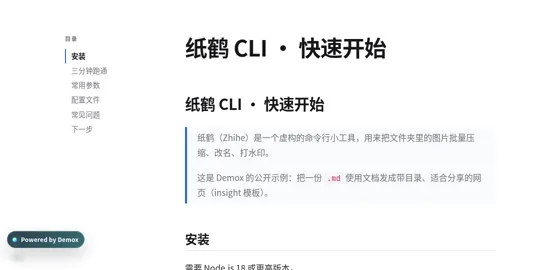
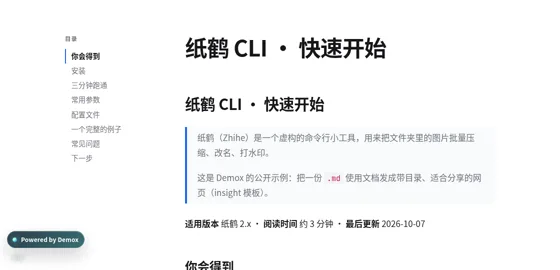
examples: polish 8 example sites (typography/layout/details, mobile) + refresh gallery screenshots

diff --git a/examples/portfolio/index.html b/examples/portfolio/index.html
@@ -24,10 +24,29 @@ h1{font:600 clamp(34px,5vw,58px)/1.1 "Songti SC","Noto Serif SC",serif;margin:16
 .review ol{margin:0;padding-left:20px}.review li{margin:0 0 10px}.review li em{font-style:normal;color:var(--mute)}
 footer{color:var(--mute);font-size:13px;padding:24px 0 40px;border-top:1px solid var(--line)}
 @media(max-width:820px){.hero,.review{grid-template-columns:1fr}.grid{grid-template-columns:1fr}.w.big{grid-column:auto}}
+
+/* ---- polish v2 ---- */
+body{-webkit-font-smoothing:antialiased;letter-spacing:.005em}
+nav{position:sticky;top:0;z-index:5;background:rgba(250,250,247,.86);backdrop-filter:saturate(1.4) blur(10px);margin:0 calc(50% - 50vw);padding-left:calc(50vw - 50%);padding-right:calc(50vw - 50%)}
+.hero{padding:88px 0 44px}
+h1{letter-spacing:-.02em}
+.hero p{font-size:15.5px;line-height:1.8;border-left:2px solid var(--a);padding-left:16px}
+.sec{display:flex;align-items:baseline;gap:12px;margin:8px 0 0;font-size:12px;letter-spacing:.14em;color:var(--mute);text-transform:uppercase}
+.sec b{font:600 12px ui-monospace,monospace;color:var(--a)}.sec:after{content:"";flex:1;height:1px;background:var(--line)}
+.grid{gap:24px}
+.w{transition:transform .25s ease,box-shadow .25s ease}
+.w:hover{transform:translateY(-3px);box-shadow:0 18px 40px -24px rgba(24,24,27,.35)}
+.w .cap{display:flex;justify-content:space-between;align-items:baseline;gap:10px;border-top:1px solid var(--line)}
+.review ol{list-style:none;padding:0;counter-reset:q}
+.review li{counter-increment:q;position:relative;padding:14px 16px 14px 52px;border:1px solid var(--line);border-radius:12px;background:#fff;margin-bottom:12px}
+.review li:before{content:counter(q);position:absolute;left:16px;top:14px;width:24px;height:24px;border-radius:50%;background:var(--ink);color:#fff;font:600 12px/24px system-ui;text-align:center}
+footer{display:flex;justify-content:space-between;gap:12px;flex-wrap:wrap}
+@media(max-width:820px){.hero{padding:48px 0 28px}.note{display:none}.pin{transform:scale(.9)}}
 </style></head><body><div class="wrap">
 <nav><b>远山设计</b><span class="badge"><i></i>评审中 · 第 2 稿</span></nav>
 <section class="hero"><div><span class="badge">2026 · 品牌与包装</span><h1>给一家<br>小茶铺做的整套视觉</h1></div>
 <p>这一页发给「青檐茶铺」（虚构客户）做第二轮评审：Logo、包装、店招和小程序首页都在下面。图上的编号对应页尾的待确认事项，看完直接回邮件说编号就行。</p></section>
+<div class="sec"><b>01</b>作品</div>
 <section class="grid">
  <div class="w big"><svg class="art" viewBox="0 0 640 360"><rect width="640" height="360" fill="#e9efe9"/><circle cx="470" cy="150" r="96" fill="#2f5d50"/><path d="M0 290 Q160 200 320 260 T640 230 V360 H0Z" fill="#c8d6cc"/><path d="M0 320 Q200 260 380 300 T640 290 V360 H0Z" fill="#9db5a6"/><text x="56" y="140" font-family="serif" font-size="56" fill="#18181b">青檐</text><text x="58" y="180" font-family="system-ui" font-size="16" fill="#52525b" letter-spacing="6">QINGYAN TEA</text></svg>
   <span class="pin" style="left:62%;top:20%">1</span><span class="note" style="left:calc(62% + 34px);top:20%">圆再往右收 20px？</span>
@@ -41,9 +60,10 @@ footer{color:var(--mute);font-size:13px;padding:24px 0 40px;border-top:1px solid
  <div class="w"><svg class="art" viewBox="0 0 320 240"><rect width="320" height="240" fill="#fff"/><g font-family="system-ui" font-size="12" fill="#52525b"><rect x="30" y="40" width="60" height="60" rx="8" fill="#2f5d50"/><text x="30" y="120">#2F5D50</text><rect x="100" y="40" width="60" height="60" rx="8" fill="#9db5a6"/><text x="100" y="120">#9DB5A6</text><rect x="170" y="40" width="60" height="60" rx="8" fill="#f3ede2" stroke="#e4e4e7"/><text x="170" y="120">#F3EDE2</text><rect x="240" y="40" width="60" height="60" rx="8" fill="#18181b"/><text x="240" y="120">#18181B</text></g><text x="30" y="180" font-family="serif" font-size="30" fill="#18181b">山色 · 檐影 · 茶汤</text></svg>
   <div class="cap"><b>色板与字体</b><span>主色 4 个</span></div></div>
 </section>
-<section class="review"><div><h2 style="margin:0;font:600 26px/1.2 serif">待确认 3 件事</h2><p style="color:var(--mute)">回复编号 + 「可以」或修改意见即可，周五前定稿。</p></div>
+<div class="sec"><b>02</b>待确认</div>
+<section class="review" style="border-top:0;padding-top:20px"><div><h2 style="margin:0;font:600 26px/1.2 serif">待确认 3 件事</h2><p style="color:var(--mute)">回复编号 + 「可以」或修改意见即可，周五前定稿。</p></div>
 <ol><li><b>主视觉的圆</b>：是否往右收一点，让「青檐」两个字更透气？<em>（图 1）</em></li>
 <li><b>茶罐顶部</b>：保留烫金细线，还是整罐纯色？<em>（图 2）</em></li>
 <li><b>小程序首页</b>：两个推荐位够不够，要不要加「季节限定」？<em>（图 3）</em></li></ol></section>
-<footer>远山设计（虚构工作室）· 本页是 Demox 公开示例：把作品集发成链接给客户评审，<code>demox deploy ./portfolio</code>。</footer>
+<footer><span>远山设计（虚构工作室）· hello@yuanshan.example</span><span>Demox 公开示例 · <code>demox deploy ./portfolio</code></span></footer>
 </div></body></html>

diff --git a/examples/tool/index.html b/examples/tool/index.html
@@ -28,6 +28,24 @@ input[type=range]{width:55%;accent-color:var(--acc)}
 .tip{margin-top:18px;padding:14px;border-radius:14px;background:rgba(255,138,91,.08);color:#ffd2bf;font-size:14px}
 footer{color:var(--mute);font-size:13px;padding:30px 0}
 @media(max-width:760px){main{grid-template-columns:1fr}.time b{font-size:52px}}
+
+/* ---- polish v2 ---- */
+body{-webkit-font-smoothing:antialiased;justify-content:center}
+header{position:fixed;top:0;left:50%;transform:translateX(-50%)}
+main{margin-top:0}
+.time b{font-variant-numeric:tabular-nums}
+.card{box-shadow:0 1px 0 rgba(255,255,255,.04) inset,0 30px 60px -30px rgba(0,0,0,.6)}
+.modes button{transition:background .2s,color .2s}.modes button:not(.on):hover{color:var(--ink);background:rgba(255,255,255,.1)}
+.ctl button{transition:transform .12s}.ctl button:active{transform:scale(.97)}
+button:focus-visible,input:focus-visible{outline:2px solid var(--acc);outline-offset:3px}
+#arc{transition:stroke-dashoffset 1s linear}
+.week{display:grid;grid-template-columns:repeat(7,1fr);gap:8px;align-items:end;height:84px;margin-top:6px}
+.week div{display:flex;flex-direction:column;align-items:center;gap:6px;height:100%;justify-content:flex-end}
+.week i{display:block;width:100%;max-width:22px;border-radius:6px 6px 3px 3px;background:rgba(255,255,255,.08);min-height:4px}
+.week i.on{background:var(--acc)}.week span{font-size:11px;color:var(--mute)}
+kbd{font:12px ui-monospace,monospace;border:1px solid rgba(255,255,255,.25);border-bottom-width:2px;border-radius:5px;padding:0 5px;color:var(--ink)}
+footer{position:fixed;bottom:0}
+@media(max-width:760px){header,footer{position:static;transform:none}body{justify-content:flex-start}}
 </style></head><body>
 <header><div class="logo">晚风<b>·</b>番茄钟</div><small>单文件 HTML · 数据只存在你的浏览器</small></header>
 <main>
@@ -43,7 +61,8 @@ footer{color:var(--mute);font-size:13px;padding:30px 0}
   <label>专注 <input type="range" min="10" max="60" value="25" id="r-focus"><span id="v-focus">25</span></label>
   <label>短休 <input type="range" min="3" max="15" value="5" id="r-short"><span id="v-short">5</span></label>
   <label>长休 <input type="range" min="10" max="30" value="15" id="r-long"><span id="v-long">15</span></label>
-  <div class="tip">每完成 4 个专注，建议来一次长休。按空格键开始 / 暂停。</div>
+  <h2 style="margin-top:22px">最近 7 天</h2><div class="week" id="week"></div>
+  <div class="tip">每完成 4 个专注，建议来一次长休。按 <kbd>空格</kbd> 开始 / 暂停。</div>
  </aside>
 </main>
 <footer>晚风番茄钟 · Demox 公开示例：一个 AI 写好的单页小工具，<code>demox deploy ./tool</code> 发布。</footer>
@@ -51,7 +70,8 @@ footer{color:var(--mute);font-size:13px;padding:30px 0}
 var D={focus:25,short:5,long:15},L={focus:'专注一段',short:'起来走走',long:'好好休息'},m='focus',left=D.focus*60,tot=left,run=null;
 var $=function(i){return document.getElementById(i)},key='wf-'+new Date().toDateString();
 function show(){var mm=Math.floor(left/60),ss=left%60;$('t').textContent=(mm<10?'0':'')+mm+':'+(ss<10?'0':'')+ss;$('arc').style.strokeDashoffset=326.7*(1-left/tot);document.title=$('t').textContent+' · 晚风番茄钟';}
-function today(){var n=+(localStorage.getItem(key)||0),el=$('today');el.innerHTML=n?Array(n+1).join('<i></i>'):'<em>还没有，先来一个。</em>';}
+function today(){var n=+(localStorage.getItem(key)||0),el=$('today');el.innerHTML=n?Array(n+1).join('<i></i>'):'<em>还没有，先来一个。</em>';week();}
+function week(){var W='日一二三四五六',h='',d=new Date(),max=1,v=[];for(var k=6;k>=0;k--){var x=new Date(d);x.setDate(d.getDate()-k);var c=+(localStorage.getItem('wf-'+x.toDateString())||0);v.push([c,k===0?'今':W[x.getDay()]]);max=Math.max(max,c);}v.forEach(function(a){h+='<div><i class="'+(a[0]?'on':'')+'" style="height:'+Math.max(4,a[0]/max*64)+'px"></i><span>'+a[1]+'</span></div>';});$('week').innerHTML=h;}
 function set(x){m=x;stop();left=tot=D[m]*60;$('lab').textContent=L[m];document.querySelectorAll('.modes button').forEach(function(b){b.classList.toggle('on',b.dataset.m===m)});show();}
 function stop(){clearInterval(run);run=null;$('go').textContent='开始';}
 function go(){if(run){stop();return;}$('go').textContent='暂停';run=setInterval(function(){left--;if(left<=0){stop();if(m==='focus'){localStorage.setItem(key,+(localStorage.getItem(key)||0)+1);today();}set(m==='focus'?'short':'focus');return;}show();},1000);}

diff --git a/examples/ai-html/ai-generated.html b/examples/ai-html/ai-generated.html
@@ -263,6 +263,21 @@
     @media (prefers-reduced-motion: reduce) {
       .blink { animation: none; }
     }
+
+    /* ---- polish v2 ---- */
+    body { -webkit-font-smoothing: antialiased; min-height: 100dvh; display: flex; flex-direction: column;
+      background-image: linear-gradient(90deg, transparent calc(50% - 2px), rgba(245, 197, 66, .18) calc(50% - 2px), rgba(245, 197, 66, .18) calc(50% + 2px), transparent calc(50% + 2px));
+      background-size: 100% 46px; background-attachment: fixed; }
+    main { flex: 0 0 auto; }
+    .ticket { box-shadow: 0 1px 0 rgba(255,255,255,.4) inset, 0 30px 80px -20px rgba(0,0,0,.6), 0 0 0 1px rgba(0,0,0,.25); transform: rotate(-.4deg); }
+    .ticket .time, .clock { font-variant-numeric: tabular-nums; }
+    .tips { width: min(920px, calc(100% - 2rem)); margin: 0 auto 1.4rem; display: grid; grid-template-columns: 1fr; gap: .7rem; }
+    .tips div { background: rgba(0,0,0,.32); border: 1px solid rgba(255,255,255,.08); border-radius: 10px; padding: .9rem 1rem; color: var(--glass); backdrop-filter: blur(6px); }
+    .tips b { display: block; font-family: var(--led); font-size: .72rem; letter-spacing: .16em; text-transform: uppercase; color: #f5c542; margin-bottom: .25rem; font-weight: 600; }
+    .tips span { font-size: .92rem; line-height: 1.6; color: #e8e2d4; }
+    .fine { margin-top: auto; padding-top: 1rem; border-top: 1px solid rgba(255,255,255,.08); }
+    @media (min-width: 800px) { .tips { grid-template-columns: repeat(3, 1fr); } main { margin-bottom: 2rem; } }
+    @media (max-width: 799px) { .ticket { transform: none; } }
   </style>
 </head>
 <body>
@@ -328,6 +343,11 @@
     </section>
   </main>
 
+  <section class="tips" aria-label="乘车须知">
+    <div><b>上车点</b><span>江岸路 3 号泊位，看到车头亮黄色「NB-7」就是它。提前 10 分钟到。</span></div>
+    <div><b>带什么</b><span>一副耳机（车上有备用）和一件外套，江边夜里风大。</span></div>
+    <div><b>下车后</b><span>终点在老码头，01:10 有一班接驳车回到起点，不用另外打车。</span></div>
+  </section>
   <p class="fine">
     车内备茶与水，不设酒单。自带耳机可选。禁烟。找不到车就沿江步道走到第三组路灯。这是一份 AI 生成的单页 HTML，用 Demox 发布，没有单独的服务器。
   </p>

diff --git a/examples/vite-react/src/styles.css b/examples/vite-react/src/styles.css
@@ -566,3 +566,38 @@ dl dt {
     transition: none;
   }
 }
+
+/* ---- polish v2: rhythm, numerals, calmer focus, spec card, mobile ---- */
+body { -webkit-font-smoothing: antialiased; text-rendering: optimizeLegibility; }
+.row-meta, .spec dd, .row-sku { font-variant-numeric: tabular-nums; }
+.filters button:hover, .catalog button:hover { outline: none; }
+.filters button:hover { border-color: var(--anodize); color: var(--anodize); }
+.filters .is-active:hover { color: #fff; }
+.catalog button { transition: background-color .18s ease, padding-left .18s ease; }
+.catalog button:hover { background: rgba(47, 111, 116, 0.06); padding-left: 0.6rem; }
+.catalog .is-selected .row-name { color: var(--anodize); }
+.lede { font-size: 1rem; line-height: 1.7; color: #33403f; }
+.spec {
+  margin-top: 1.4rem;
+  padding: 1.1rem 1.2rem 1rem;
+  border: 1px solid var(--line);
+  border-radius: 14px;
+  background: linear-gradient(180deg, #fff, rgba(255,255,255,.55));
+  box-shadow: 0 1px 0 rgba(255,255,255,.8) inset, 0 10px 30px -18px rgba(20, 40, 44, .35);
+}
+.spec h2 { letter-spacing: -0.01em; }
+.spec dl { row-gap: 0.85rem; }
+.note { line-height: 1.65; }
+.foot { margin-top: 1.2rem; padding-top: 0.9rem; border-top: 1px dashed var(--line); }
+@media (min-width: 960px) {
+  .sheet { padding: 2.4rem 2.6rem 1.6rem; }
+  .catalog button { padding: 0.8rem 0.45rem; }
+}
+@media (max-width: 720px) {
+  .stage { min-height: 46vh; }
+  .sheet { padding: 1.5rem 1.15rem 5rem; }
+  .filters { flex-wrap: nowrap; overflow-x: auto; margin-inline: -1.15rem; padding: 0 1.15rem 0.2rem; scrollbar-width: none; }
+  .filters button { flex: none; }
+  .catalog button { padding: 0.85rem 0.3rem; row-gap: 0.25rem; }
+  .row-name { font-size: 1.02rem; }
+}

diff --git a/examples/essay/README.md b/examples/essay/README.md
@@ -4,6 +4,10 @@
 >
 > 这是 Demox 的公开示例：把 Markdown 随笔发成暖色、衬线、适合慢慢读的网页（warm 模板）。
 
+> 「雾是山的呼吸，你得学会跟它一起慢下来。」
+
+---
+
 ## 先说天气
 
 十月的第一个礼拜，山里一下子凉了。早上七点推开窗，雾还挂在对面的竹林上，像谁晾了一床没收的棉被。
@@ -15,6 +19,8 @@
 1. **把院子里那块荒地翻了一遍。** 种下萝卜、菠菜和一排小葱。邻居阿婆路过看了一眼，说萝卜种得太密，我假装没听见，然后在她走后偷偷拔掉了一半。
 2. **学会了生炉子。** 第一次把整个屋子熏成了腊肉味，第三次终于能在十分钟内烧开一壶水。
 3. **每天写五百字。** 不为什么，只是想知道一个人安静下来，到底能想多少东西。
+
+---
 
 ## 一段摘抄
 
@@ -30,6 +36,17 @@
 
 有了名字，好像就有了邻居。
 
+---
+
+## 这个月的小账本
+
+| 项目 | 数量 |
+| --- | --- |
+| 种下的萝卜 | 40 棵（拔掉一半后剩 20） |
+| 生炉子失败 | 2 次 |
+| 写下的字 | 约 15000 |
+| 来偷吃的「税务局」 | 每天 1 次，从不缺勤 |
+
 ## 下个月
 
 - 柿子该熟了，打算试着做柿饼
@@ -39,3 +56,5 @@
 祝秋安。
 
 —— 阿檀，于半山腰
+
+*想收到下一封，回信说一声就好。不想收了，也回一声，我不会难过（大概）。*

diff --git a/examples/docs/README.md b/examples/docs/README.md
@@ -4,6 +4,15 @@
 >
 > 这是 Demox 的公开示例：把一份 `.md` 使用文档发成带目录、适合分享的网页（insight 模板）。
 
+**适用版本** 纸鹤 2.x · **阅读时间** 约 3 分钟 · **最后更新** 2026-10-07
+
+## 你会得到
+
+- 一条命令把整个文件夹的图片压缩到合适大小
+- 按模板批量改名，不再有 `IMG_4031.JPG`
+- 可选的右下角文字水印
+- 原图永远不动，结果统一放在 `./zhihe-out/`
+
 ## 安装
 
 需要 Node.js 18 或更高版本。
@@ -13,7 +22,7 @@ npm install -g zhihe-cli
 zhihe --version
 ```
 
-看到版本号就说明装好了。公司电脑如果没有全局安装权限，用 `npx zhihe-cli` 也可以。
+看到类似 `zhihe 2.3.1` 的版本号就说明装好了。公司电脑如果没有全局安装权限，用 `npx zhihe-cli` 也可以。
 
 ## 三分钟跑通
 
@@ -56,6 +65,19 @@ zhihe --version
 ```
 
 命令行参数优先级高于配置文件。
+
+## 一个完整的例子
+
+把旅行照片压到 2400 像素宽、按日期改名、加水印：
+
+```bash
+zhihe run --max-width 2400 --rename "{date}-{n}" --watermark "© 小林的相册"
+```
+
+| 处理前 | 处理后 |
+| --- | --- |
+| `IMG_4031.JPG` · 6.2 MB | `2026-09-14-001.jpg` · 820 KB |
+| `IMG_4032.JPG` · 5.8 MB | `2026-09-14-002.jpg` · 790 KB |
 
 ## 常见问题
 

diff --git a/examples/changelog/CHANGELOG.md b/examples/changelog/CHANGELOG.md
@@ -4,6 +4,17 @@
 >
 > 这是 Demox 的公开示例：把 `CHANGELOG.md` 发成深色、贴合开发者控制台风格的网页（dark 模板）。
 
+## 版本一览
+
+| 版本 | 日期 | 类型 | 一句话 |
+| --- | --- | --- | --- |
+| 3.4.0 | 2026-09-28 | 功能 | 双向链接面板、每日笔记模板 |
+| 3.3.2 | 2026-09-10 | 修复 | 同步冲突与 Windows 路径 |
+| 3.3.0 | 2026-08-22 | 功能 | 白板视图、Mermaid；**提高最低系统要求** |
+| 3.2.0 | 2026-07-30 | 功能 | 正则搜索、自定义快捷键 |
+
+> **当前稳定版 3.4.0。** 自动更新默认开启，可在「设置 → 关于」查看。
+
 ## 3.4.0 · 2026-09-28
 
 ### 新增
@@ -37,9 +48,9 @@
 - **白板视图**：把笔记卡片拖到无限画布上自由排列。
 - 支持 Mermaid 流程图。
 
-### 变更
+### 变更（需要注意）
 
-- 最低系统要求调整为 macOS 12 / Windows 10。
+- ⚠ 最低系统要求调整为 macOS 12 / Windows 10。
 - 旧版「标签云」移到插件市场，不再内置。
 
 ## 3.2.0 · 2026-07-30

diff --git a/examples/markdown/README.md b/examples/markdown/README.md
@@ -10,6 +10,18 @@
 
 如果只是远程看数据，读「数据字段」和「常见问题」即可。
 
+### 一页速查
+
+| 阶段 | 要做的事 | 大约用时 |
+| --- | --- | --- |
+| 到站 | 对箱、拍开箱照 | 15 分钟 |
+| 选址 | 离树和田埂 10 m 以上，桩位用卷尺量 | 20 分钟 |
+| 安装 | 地锚 → 桅杆 → 主机 → 探头 → 雨量筒 → 太阳能板 | 60 分钟 |
+| 校准 | 上电，对照表格看 5 个读数 | 20 分钟 |
+| 收尾 | 当天必做清单逐条打勾 | 10 分钟 |
+
+> **提醒** 下雨或 4 级以上风不要装桅杆，改天再来。
+
 ## 开箱清单
 
 到站点后先对箱，缺一件就不要开装。
